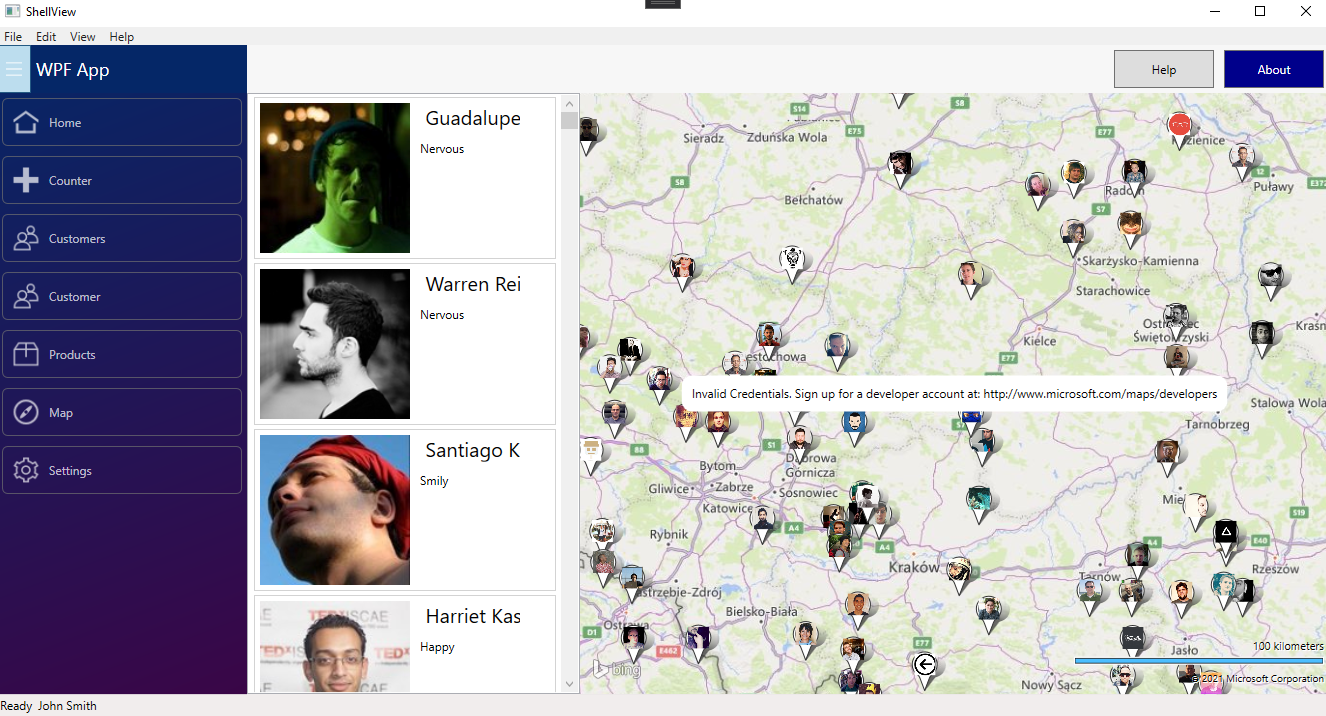
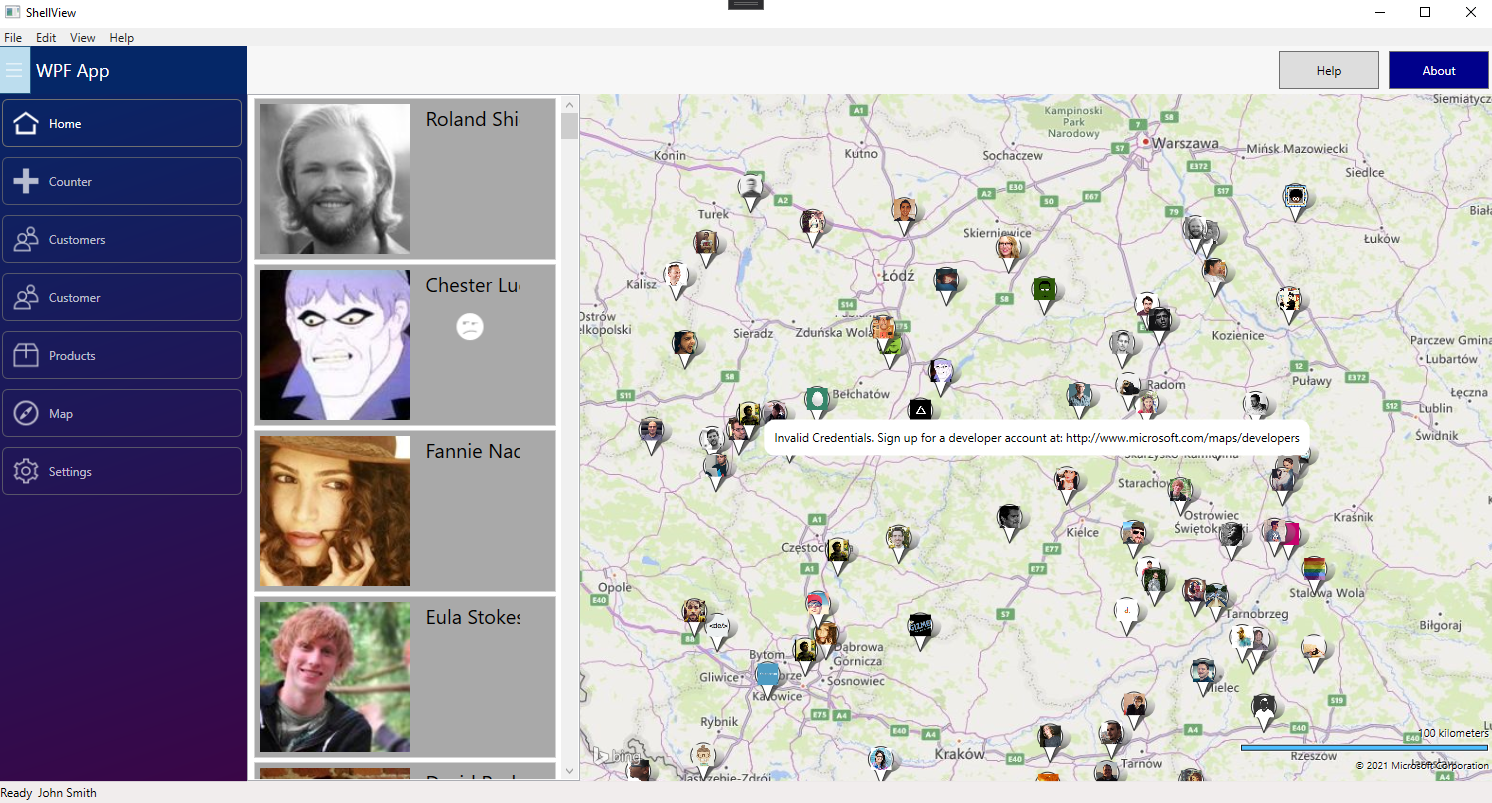
Warunkowe wyświetlanie obrazka

diff --git a/src/Vavatech.Shop/Vavatech.Shop.WpfClient/Resources/DataTemplates.xaml b/src/Vavatech.Shop/Vavatech.Shop.WpfClient/Resources/DataTemplates.xaml
@@ -10,14 +10,17 @@
 
     <DataTemplate x:Key="CustomerTemplate" DataType="{x:Type m:Customer}">
 
-        <Border BorderBrush="LightGray" BorderThickness="1">
+        <Border BorderBrush="LightGray" BorderThickness="1"  Background="DarkGray">
             <StackPanel Orientation="Horizontal" Width="300">
 
                 <Image Margin="5" Width="150" Source="{Binding Avatar}" />
 
+               
+
                 <StackPanel>
+
                     
-                
+                    
                     <TextBlock  FontSize="20" Style="{StaticResource TextBlockStyle}">
                         <TextBlock.Text>
                             <MultiBinding StringFormat="{} {0} {1}">
@@ -27,7 +30,25 @@
                         </TextBlock.Text>
                     </TextBlock>
 
-                    <TextBlock Style="{StaticResource TextBlockStyle}" Text="{Binding CustomerType}" />
+                    <Image Width="50" Height="50" >
+                        <Image.Style>
+                            <Style TargetType="Image">
+                                <Style.Triggers>
+                                    <DataTrigger Binding="{Binding CustomerType}" Value="{x:Static m:CustomerType.Smily}">
+                                        <Setter Property="Source" Value="{StaticResource SmilyImage}" />
+                                    </DataTrigger>
+                                    <DataTrigger Binding="{Binding CustomerType}" Value="{x:Static m:CustomerType.Happy}">
+                                        <Setter Property="Source" Value="{StaticResource HappyImage}" />
+                                    </DataTrigger>
+                                    <DataTrigger Binding="{Binding CustomerType}" Value="{x:Static m:CustomerType.Nervous}">
+                                        <Setter Property="Source" Value="{StaticResource AnnoyedImage}" />
+                                    </DataTrigger>
+                                </Style.Triggers>
+                            </Style>
+                        </Image.Style>
+                    </Image>
+
+
 
                 </StackPanel>
 

diff --git a/src/Vavatech.Shop/Vavatech.Shop.WpfClient/Resources/Images.xaml b/src/Vavatech.Shop/Vavatech.Shop.WpfClient/Resources/Images.xaml
@@ -11,8 +11,11 @@
     <BitmapImage x:Key="MenuImage" UriSource="/Assets/Menu-01-WF.png" />
     <BitmapImage x:Key="SettingImage" UriSource="/Assets/Setting_2-WF.png" />
 
-    
-    
+
+    <BitmapImage x:Key="HappyImage" UriSource="/Assets/AHappy-01.png" />
+    <BitmapImage x:Key="SmilyImage" UriSource="/Assets/Happy - 04.pngg" />
+    <BitmapImage x:Key="AnnoyedImage" UriSource="/Assets/Annoyed.png" />
+  
 
     <BitmapImage x:Key="SettingsImage" UriSource="https://picsum.photos/640/480/?image=481" />
 

diff --git a/src/Vavatech.Shop/Vavatech.Shop.FakeServices/FakeCustomerService.cs b/src/Vavatech.Shop/Vavatech.Shop.FakeServices/FakeCustomerService.cs
@@ -22,7 +22,7 @@ namespace Vavatech.Shop.FakeServices
         {
             // Task task = Task.Run(action)  - Task task = Task.Factory.StartNew(action)
 
-            Thread.Sleep(TimeSpan.FromSeconds(5));
+            Thread.Sleep(TimeSpan.FromSeconds(2));
 
             return base.Get();
         }
